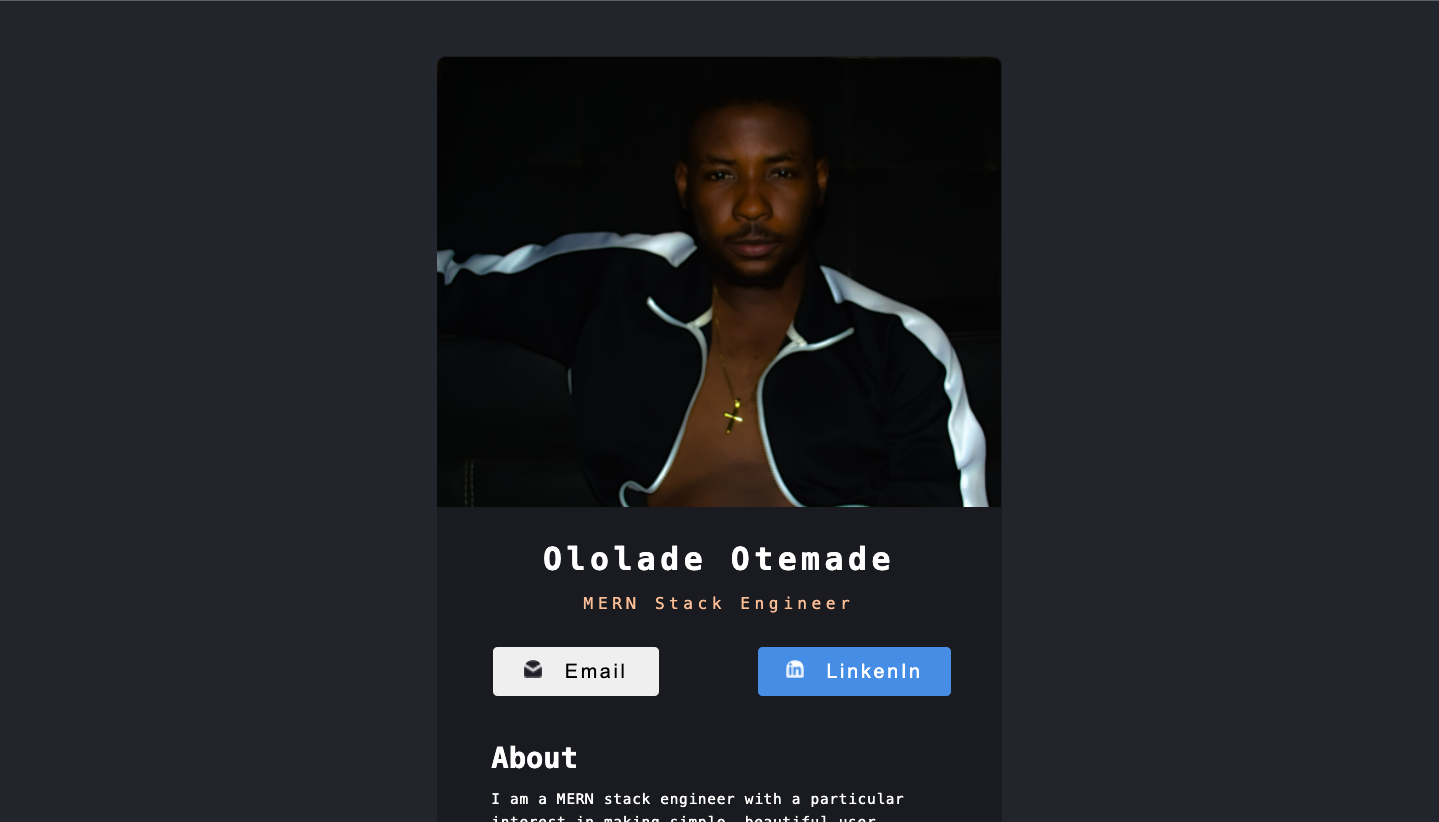
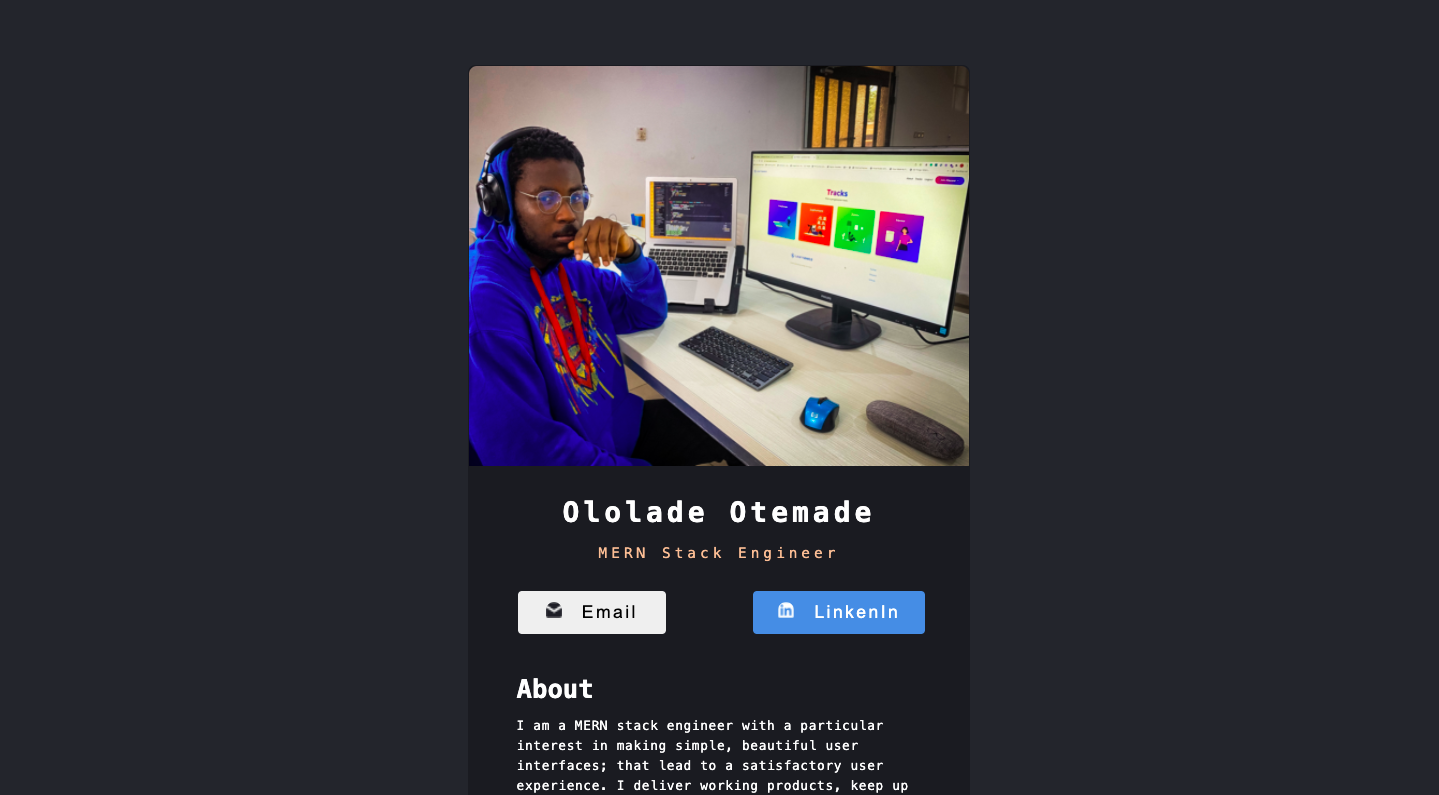
Updated information card image

Changed region(s): [[0.3058, 0.0604, 0.7033, 0.8755], [0.3363, 0.9057, 0.6421, 1.0]]

diff --git a/src/components/Info.js b/src/components/Info.js
@@ -1,4 +1,4 @@
-import headShot from "../image/Headshot.jpg"
+import headShot from "../image/profile.jpg"
 import emailLogo from "../image/Icon.png"
 import linkedInLogo from "../image/Vector.png"
 function Info() {

diff --git a/src/index.css b/src/index.css
@@ -36,6 +36,7 @@ img {
   height: 500px;
   width: 100%;
   border-radius: 10px 10px 0px 0px;
+  border: none;
 }
 
 .name {
